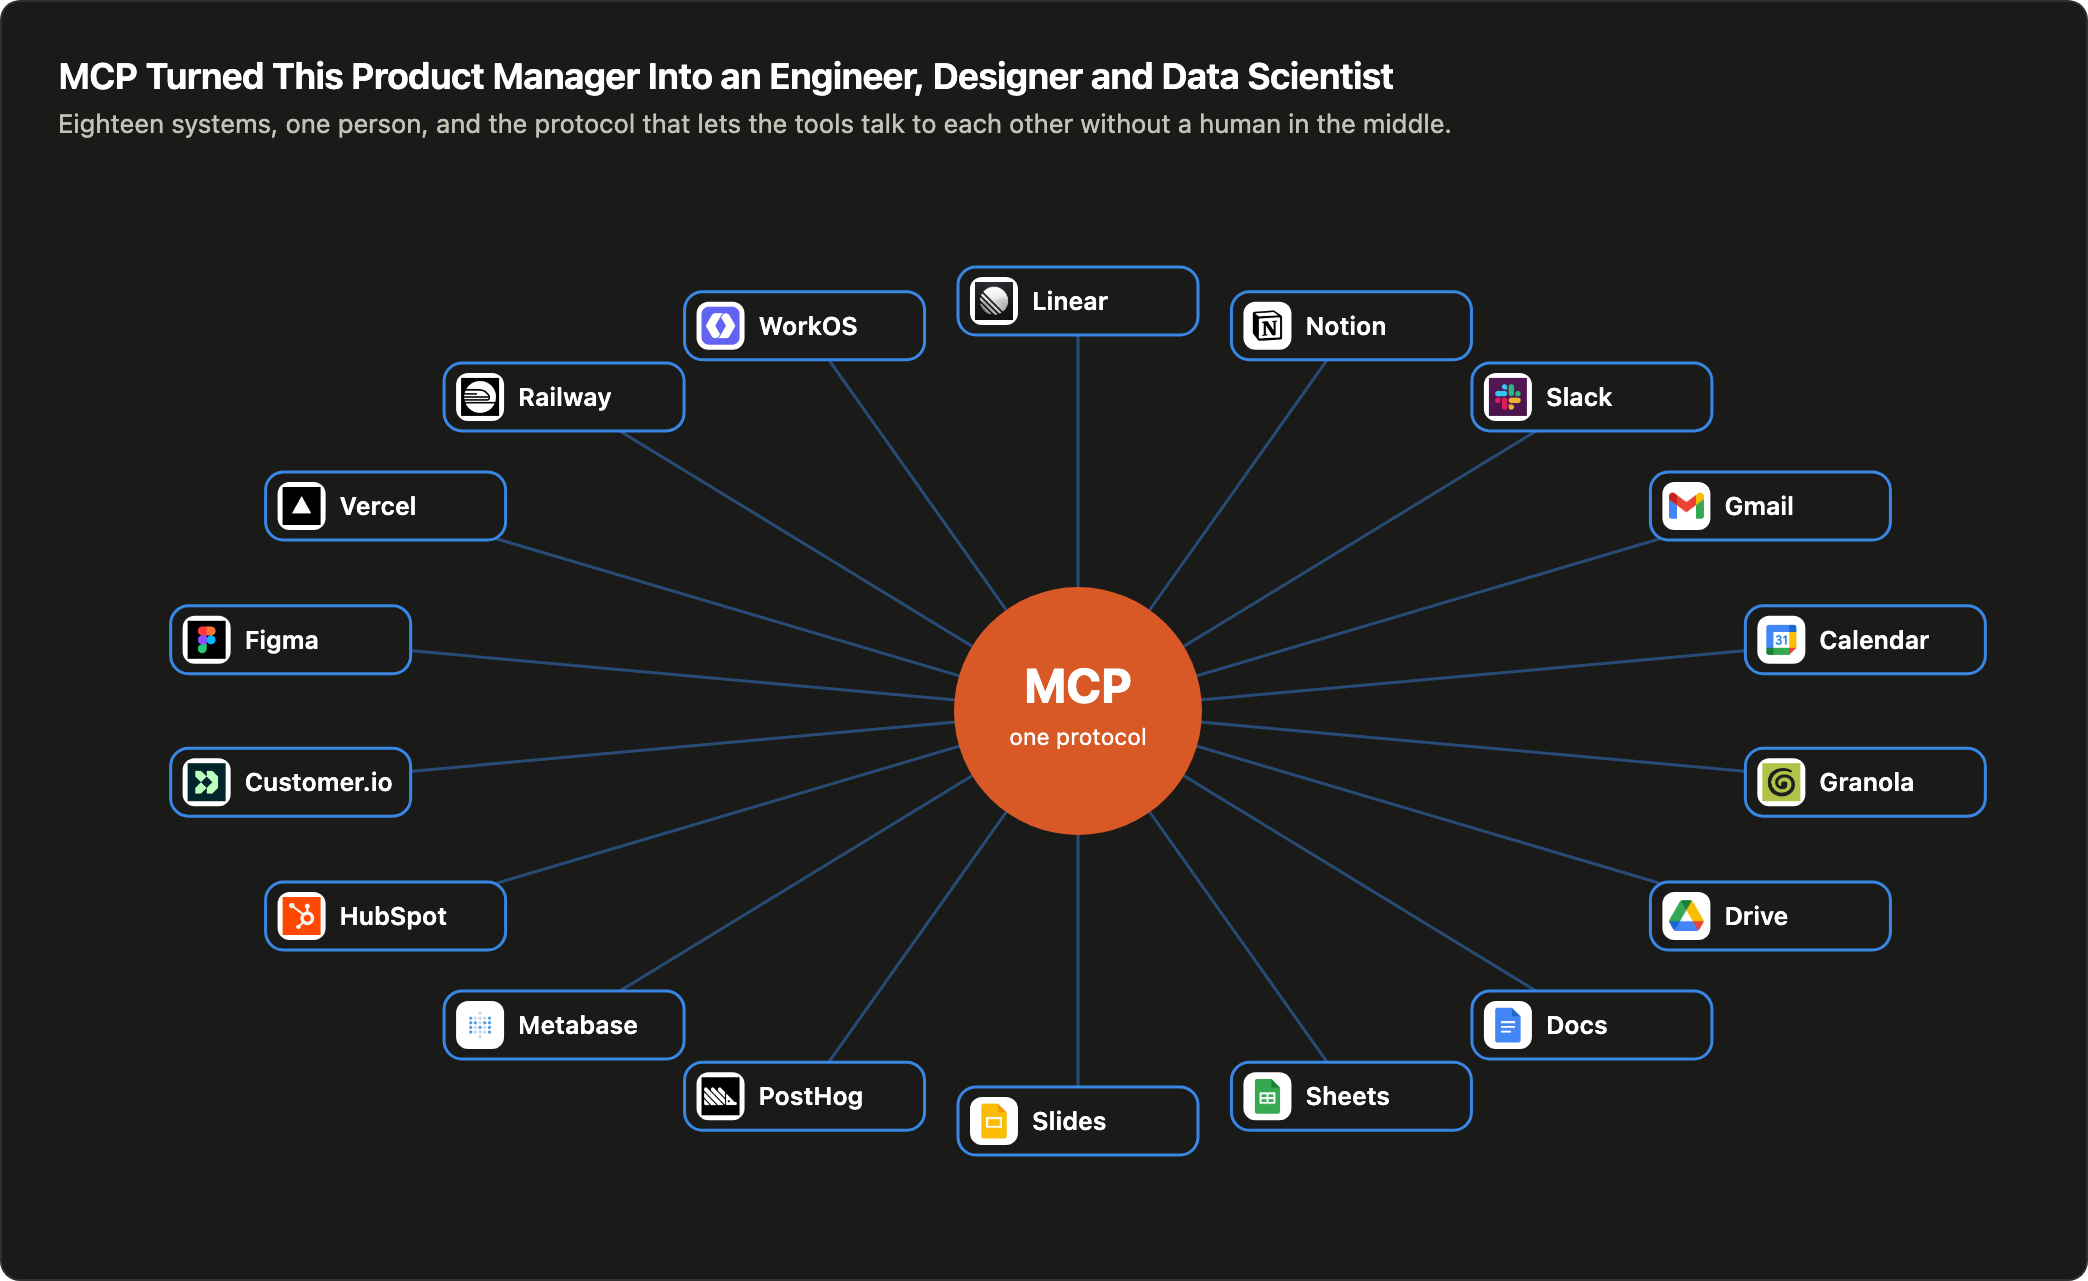
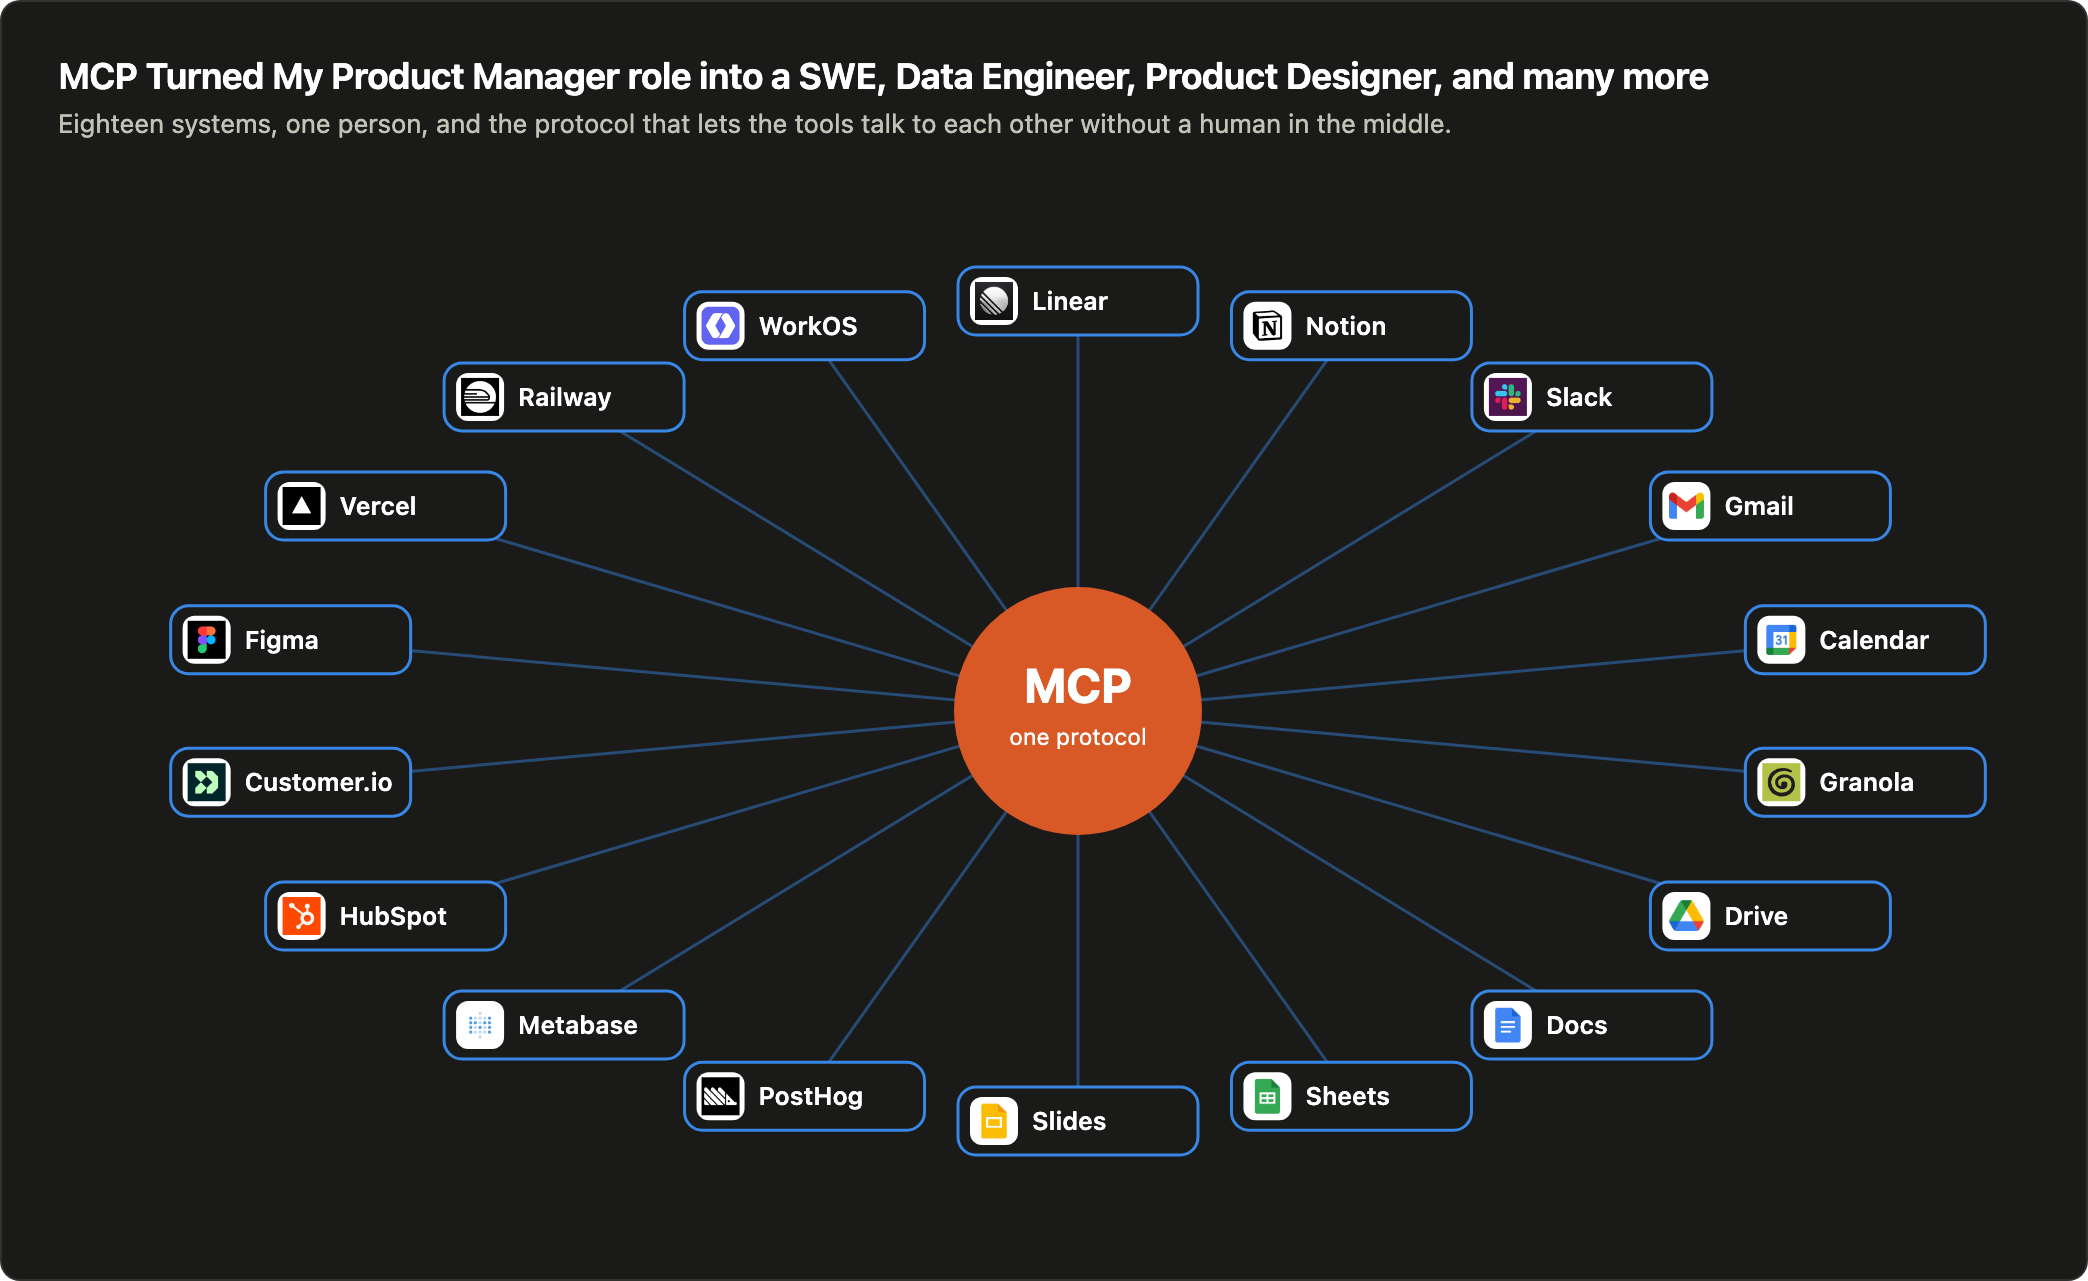
Writing: MCP article title as supplied, engineer named as full stack software engineer

Changed region(s): [[0.1245, 0.0312, 0.8094, 0.0937]]

diff --git a/app/writing/content/the-power-of-mcp.html b/app/writing/content/the-power-of-mcp.html
@@ -119,7 +119,7 @@
 
 <p>Now count the systems in that story. The requirements came out of meeting notes in Granola. The tickets are in Linear. The brief was a Google Doc and the scorecard a Google Sheet. The data arrives through Metabase and the whole thing lives on Railway. Six of the eighteen, one product.</p>
 
-<p>No other person touched it. I wrote the requirements, ran the plan from tickets in Linear, decided the screens and the data model, and approved every deploy, with Claude Code doing the typing. That is a product manager, a project manager, a designer, an engineer, a data person and an architect, and none of them had to book a meeting with the others.</p>
+<p>No other person touched it. I wrote the requirements, ran the plan from tickets in Linear, decided the screens and the data model, and approved every deploy, with Claude Code doing the typing. That is a product manager, a project manager, a designer, a full stack software engineer, a data person and an architect, and none of them had to book a meeting with the others.</p>
 
 <p>Designer and project manager were the hats I had not counted. Somebody had to decide where the buttons go, and somebody had to decide when.</p>
 

diff --git a/app/writing/articles.ts b/app/writing/articles.ts
@@ -24,9 +24,9 @@ export type Article = {
 export const articles: Article[] = [
   {
     slug: "the-power-of-mcp",
-    title: "MCP Turned This Product Manager Into an Engineer, Designer and Data Scientist",
+    title: "MCP Turned My Product Manager role into a SWE, Data Engineer, Product Designer, and many more",
     subtitle:
-      "The Model Context Protocol wired my eighteen work systems together, and I stopped being the copy and paste between them. Now I am also the engineer, the data scientist, the designer, the quality assurance analyst, the marketer and the project manager.",
+      "The Model Context Protocol wired my eighteen work systems together, and I stopped being the copy and paste between them. Now I am also the full stack software engineer, the data scientist, the designer, the quality assurance analyst, the marketer and the project manager.",
     topic: "AI · Product · Careers",
     date: "November 2026",
     readTime: "10 min read",
